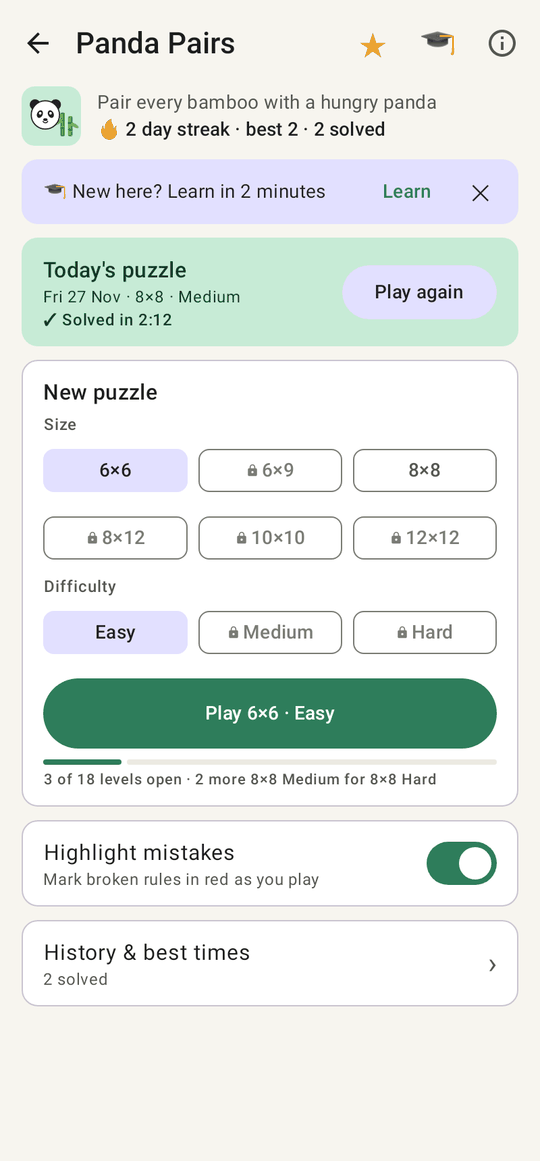
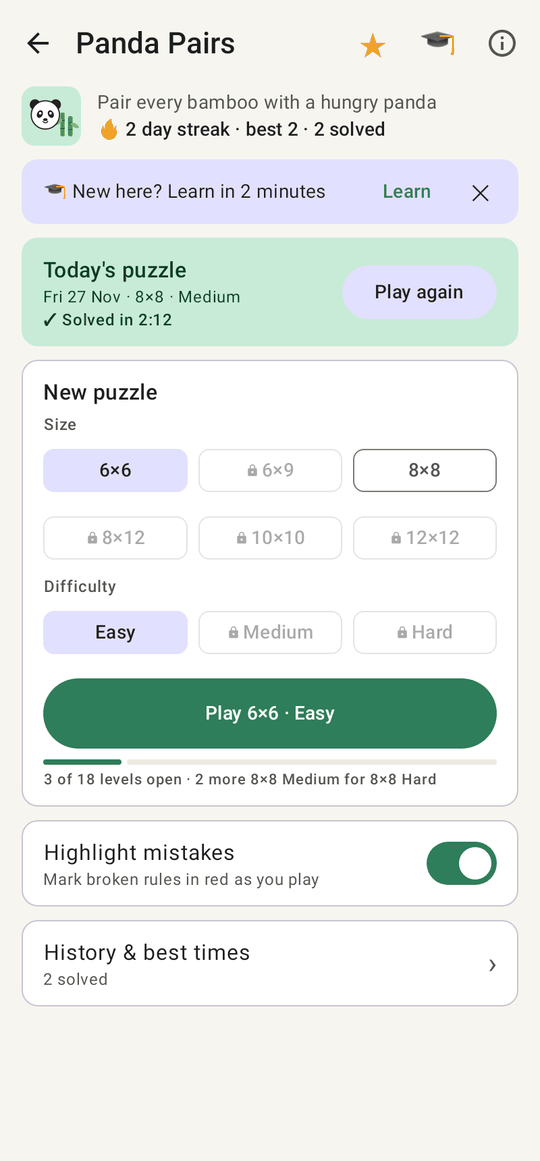
Guide for 1.13.1: how unlocks follow the path
Claude-Session: https://claude.ai/code/session_016Z8Mn8awnLpuJzFTS8oQNa

diff --git a/docs/using-the-app.md b/docs/using-the-app.md
@@ -27,7 +27,7 @@ Tap a puzzle to see:
   Expert), then **Play**. Your choice is remembered. Harder doesn't just mean bigger: hard puzzles need
   deeper reasoning, while easy ones can be solved one simple step at a time. Many puzzles come in
   phone-shaped sizes too (like 7×11), which fill the screen better than square boards. Sizes are listed
-  from smallest to largest; locked ones show a 🔒 and the Play button says what opens them.
+  from smallest to largest; locked ones are greyed out with a 🔒, and the line under Play says what opens next.
 - **Highlight mistakes:** whether this puzzle marks broken rules in red (also in the ⋮ menu while you play).
 - **History & best times:** your best time for every size and difficulty, and every puzzle you've solved.
 - **🎓** at the top opens the tutorial, and **ⓘ** shows the rules.
@@ -35,8 +35,10 @@ Tap a puzzle to see:
 ### Unlocking levels
 
 Each puzzle starts with its smallest Easy board. Solve 3 puzzles at a level to open the next difficulty
-at that size and the next size up at that difficulty. Every solve counts, daily puzzles and puzzles from
-friends included, and levels you've already played stay open. When a solve opens something new, the
+at that size and the next size up at that difficulty. Locked sizes and difficulties are greyed out.
+Every solve counts at its own level, daily puzzles and puzzles from friends included: a solve at a level
+that's still locked is kept for when the path gets there. Levels you'd played before unlocks arrived
+stay open. When a solve opens something new, the
 finishing screen offers to play it straight away. Daily and shared puzzles can always be played. Rather
 skip it? **Unlock every size and difficulty** in Profile & settings opens everything.
 
